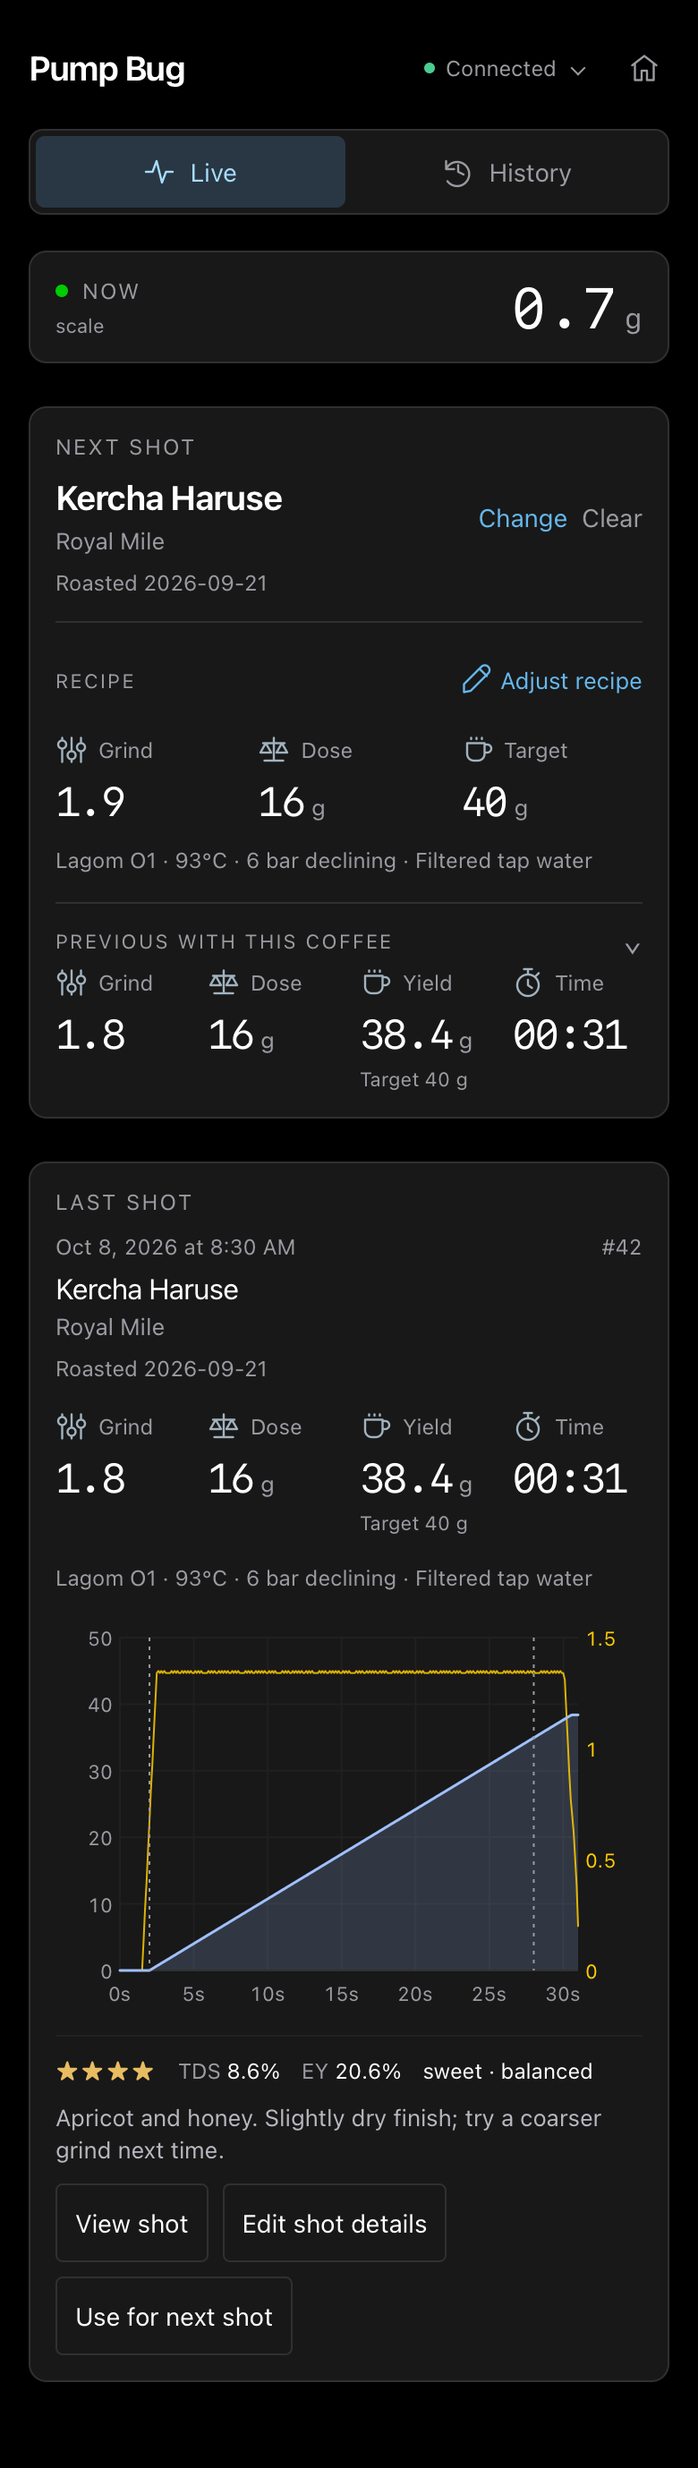
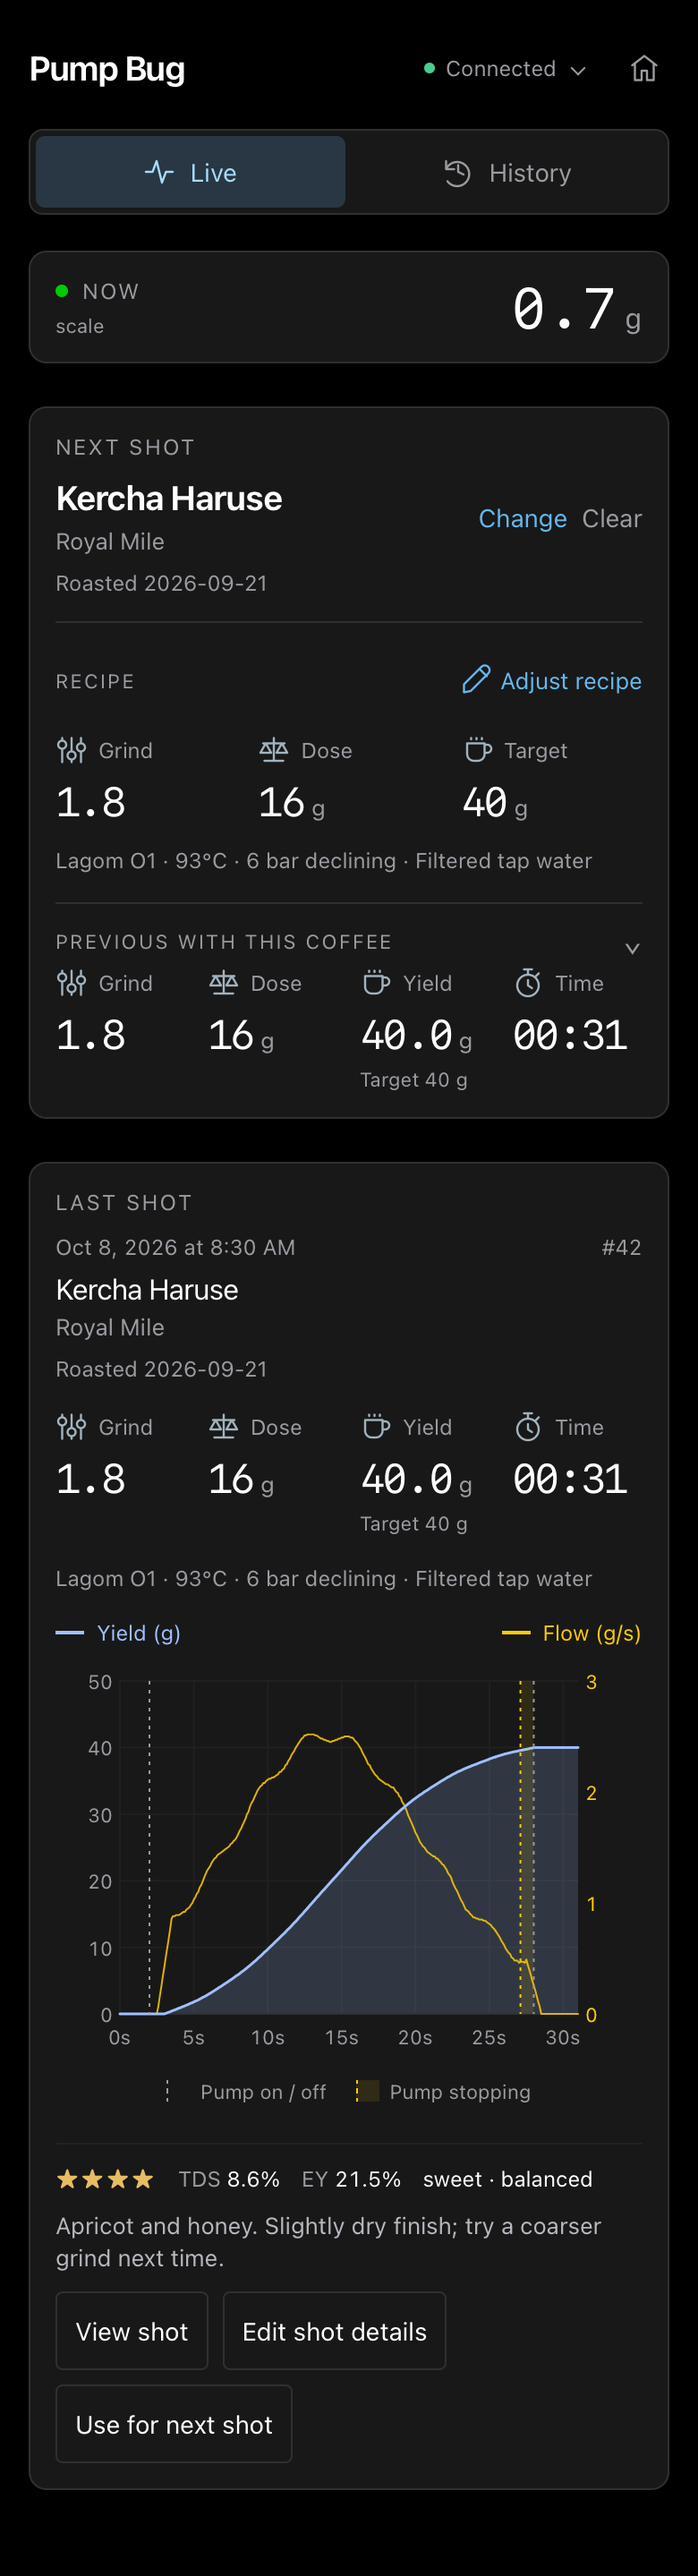
Make shot charts easier to read and inspect
Continue the web client redesign with labelled yield and flow curves
and a key for pump events. During inspection, show measurements below
the plot so they stay readable without covering the curves.

diff --git a/web-src/app/extraction/chart.js b/web-src/app/extraction/chart.js
@@ -16,6 +16,7 @@ function createChart() {
   const PAD_L = 36, PAD_R = 36, PAD_T = 12, PAD_B = 22;
 
   let root = null;
+  let block = null;
   let svg = null;
   let overlay = null;
   let e = {};            // cached element refs
@@ -70,6 +71,21 @@ function createChart() {
   function ensureRoot() {
     if (root) return;
     root = htmlEl('div', 'chart');
+    block = htmlEl('div', 'chart-block');
+    e.key = htmlEl('div', 'chart-key');
+    e.key.style.visibility = 'hidden';
+    e.weightKey = htmlEl('span', 'chart-series-key weight');
+    e.flowKey = htmlEl('span', 'chart-series-key flow');
+    e.flowKey.textContent = 'Flow (g/s)';
+    e.key.append(e.weightKey, e.flowKey);
+    e.status = htmlEl('div', 'chart-status');
+    e.eventsKey = htmlEl('div', 'chart-events-key');
+    e.eventsKey.style.visibility = 'hidden';
+    e.pumpKey = htmlEl('span', 'chart-event-key pump');
+    e.pumpKey.textContent = 'Pump on / off';
+    e.stoppingKey = htmlEl('span', 'chart-event-key stopping');
+    e.stoppingKey.textContent = 'Pump stopping';
+    e.eventsKey.append(e.pumpKey, e.stoppingKey);
 
     svg = svgEl('svg', { preserveAspectRatio: 'none' });
     svg.style.display = 'block';
@@ -93,10 +109,12 @@ function createChart() {
     e.yLabels = htmlEl('div', 'chart-ylabels');
     e.yLabelsFlow = htmlEl('div', 'chart-ylabels chart-ylabels-flow');
     e.readout = htmlEl('div', 'chart-readout');
-    e.readout.style.display = 'none';
-    overlay.append(e.xLabels, e.yLabels, e.yLabelsFlow, e.readout);
+    e.readout.style.visibility = 'hidden';
+    overlay.append(e.xLabels, e.yLabels, e.yLabelsFlow);
 
     root.append(svg, overlay);
+    e.status.append(e.eventsKey, e.readout);
+    block.append(e.key, root, e.status);
 
     resizeObs = new ResizeObserver((entries) => {
       const r = entries[0].contentRect;
@@ -116,7 +134,7 @@ function createChart() {
 
   function mount(parent) {
     ensureRoot();
-    if (root.parentElement !== parent) parent.appendChild(root);
+    if (block.parentElement !== parent) parent.appendChild(block);
   }
 
   function update(extraction, nowMs) {
@@ -313,6 +331,7 @@ function createChart() {
       showFlow,
       annotations,
       beginMs,
+      haveZero,
     };
   }
 
@@ -331,9 +350,17 @@ function createChart() {
     if (!latest.extraction) return;
 
     const m = buildModel(latest.extraction, latest.nowMs);
+    e.weightKey.textContent = m.haveZero ? 'Yield (g)' : 'Weight (g)';
+    e.flowKey.hidden = !m.showFlow;
+    e.pumpKey.hidden = !m.annotations.some(annotation =>
+      annotation.type === 'pump-on' || annotation.type === 'pump-off-confirmed');
+    e.stoppingKey.hidden = !m.annotations.some(annotation =>
+      annotation.type === 'pump-signal-decay-onset' ||
+      annotation.type === 'pump-off-transition');
     const plotW = dims.w - PAD_L - PAD_R;
     const plotH = dims.h - PAD_T - PAD_B;
     if (plotW <= 0 || plotH <= 0) return;
+    e.key.style.visibility = 'visible';
 
     const [x0, x1] = m.xDomain;
     const [y0, y1] = m.yDomain;
@@ -372,7 +399,7 @@ function createChart() {
     renderFlowTicks(m, yfS, plotW);
     renderXTicks(m, xS, plotH);
     renderAnnotations(m, xS, plotH);
-    renderCrosshair(m, xS, yS, plotW, plotH);
+    renderCrosshair(m, xS, plotH);
   }
 
   function segmentsToD(segs, xS, yS) {
@@ -535,17 +562,17 @@ function createChart() {
     }
   }
 
-  function renderCrosshair(m, xS, yS, plotW, plotH) {
+  function renderCrosshair(m, xS, plotH) {
+    e.eventsKey.style.visibility = 'visible';
+    e.readout.style.visibility = 'hidden';
     const pinTms = scrub ? scrub.pinnedTms : (hover ? hover.tMs : null);
     if (pinTms == null) {
       e.crosshair.style.display = 'none';
-      e.readout.style.display = 'none';
       return;
     }
     const [x0, x1] = m.xDomain;
     if (pinTms < x0 || pinTms > x1) {
       e.crosshair.style.display = 'none';
-      e.readout.style.display = 'none';
       return;
     }
     const x = xS(pinTms);
@@ -558,7 +585,6 @@ function createChart() {
     const pts = m.pts;
     const nearIdx = nearestPtIdx(pts, pinTms);
     if (nearIdx < 0) {
-      e.readout.style.display = 'none';
       return;
     }
     const near = pts[nearIdx];
@@ -568,12 +594,9 @@ function createChart() {
       flowText = ' · ' + gps.toFixed(1) + ' g/s';
     }
     const secs = ((near.tMs - m.beginMs) / 1000).toFixed(2);
-    e.readout.textContent = 't=' + secs + 's · ' + near.g.toFixed(1) + ' g' + flowText;
-    e.readout.style.display = '';
-    // Position above the touch point. Clamp into plot area.
-    const rx = Math.max(PAD_L, Math.min(PAD_L + plotW - 120, x - 60));
-    e.readout.style.left = rx + 'px';
-    e.readout.style.top = (PAD_T + 4) + 'px';
+    e.readout.textContent = secs + ' s · ' + near.g.toFixed(1) + ' g' + flowText;
+    e.eventsKey.style.visibility = 'hidden';
+    e.readout.style.visibility = 'visible';
   }
 
   function nearestPtIdx(pts, tMs) {

diff --git a/web-src/app/extraction/styles.css b/web-src/app/extraction/styles.css
@@ -12,7 +12,10 @@
   --primary-fill: #176b99;
   --chart-grid: #202020;
   --chart-crosshair: #606060;
-  --chart-readout-bg: #181818e0;
+  --chart-plot-height: 220px;
+  --chart-key-height: 18px;
+  --chart-status-height: 30px;
+  --chart-gap: 6px;
 }
 html, body {
   font-family: var(--ui-font);
@@ -138,18 +141,22 @@ section { margin: 0 0 24px; }
 .card.now, .card.last-shot { border-radius: 10px; padding: 14px; }
 .last-shot > h2 { margin-bottom: 10px; }
 .last-shot-coffee { margin-bottom: 16px; }
-.last-shot > .chart { margin: 4px 0 14px; }
+.last-shot > .chart-block { margin: 4px 0 14px; }
 .last-shot .metadata-actions button { min-height: 44px; }
 .last-shot-alert { color: var(--dim); font-size: 12px; margin-top: 12px; }
 .preparation-details { color: var(--dim); font-size: 12px; line-height: 1.6; }
 .last-shot > .preparation-details, .comparison-row > .preparation-details {
   margin-bottom: 12px;
 }
-/* In-flight curve slot: same height as .chart whether it holds the chart or
-   the pre-sample placeholder, so the card never jumps mid-activity. */
-.chartslot { height: 220px; margin: 8px 0 0; }
+/* Reserve the chart and its labels while waiting for samples. */
+.chartslot {
+  display: grid; margin: 8px 0 0;
+  min-height: calc(var(--chart-plot-height) + var(--chart-key-height) +
+    var(--chart-status-height) + 2 * var(--chart-gap));
+}
+.chartslot > .chart-block { margin: 0; }
 .chartslot .empty {
-  height: 100%; padding: 0;
+  padding: 0;
   display: flex; align-items: center; justify-content: center;
 }
 .banner {
@@ -243,7 +250,7 @@ table.samples td.k { text-align: left; color: var(--dim); }
 .shot-detail-head .shot-coffee-name.missing { color: var(--dim); font-weight: 500; }
 .shot-detail-head button { min-height: 44px; flex-shrink: 0; }
 .shot-detail > .shot-metrics { margin-bottom: 20px; }
-.shot-detail > .chart { margin-bottom: 24px; }
+.shot-detail > .chart-block { margin-bottom: 24px; }
 .shot-detail > .empty.compact { padding: 0; text-align: left; margin-bottom: 20px; }
 .shot-detail-sections { display: grid; gap: 22px; margin-bottom: 24px; }
 .shot-detail-sections > :only-child { grid-column: 1 / -1; }
@@ -717,10 +724,41 @@ form > .editor-error:focus {
   .recipe-fields > .field:first-of-type { grid-column: 1 / -1; }
 }
 
+.chart-block {
+  display: grid; margin: 18px 0;
+  grid-template-rows: minmax(var(--chart-key-height), auto)
+    var(--chart-plot-height) minmax(var(--chart-status-height), auto);
+  row-gap: var(--chart-gap);
+}
+.chart-key {
+  display: flex; justify-content: space-between; align-items: center;
+  gap: 12px; font-size: 12px;
+}
+.chart-series-key { display: inline-flex; align-items: center; gap: 7px; }
+.chart-series-key::before {
+  content: ''; width: 16px; border-top: 2px solid currentColor;
+}
+.chart-series-key.weight { color: var(--accent-light); }
+.chart-series-key.flow { color: var(--warn); }
+.chart-series-key[hidden], .chart-event-key[hidden] { display: none; }
+.chart-status { display: grid; align-items: center; }
+.chart-status > * { grid-area: 1 / 1; }
+.chart-events-key {
+  display: flex; flex-wrap: wrap; justify-content: center;
+  gap: 8px 16px; font-size: 11px; color: var(--dim);
+}
+.chart-event-key { display: inline-flex; align-items: center; gap: 6px; }
+.chart-event-key::before {
+  content: ''; width: 12px; height: 12px; border-left: 1px dashed var(--dim);
+}
+.chart-event-key.stopping::before {
+  border-color: var(--warn);
+  background: color-mix(in srgb, var(--warn) 10%, transparent);
+}
 .chart {
   position: relative;
   width: 100%;
-  height: 220px;
+  height: var(--chart-plot-height);
   touch-action: none;
   user-select: none;
 }
@@ -804,15 +842,13 @@ form > .editor-error:focus {
   transform: translateX(-50%);
 }
 .chart-readout {
-  position: absolute;
-  background: var(--chart-readout-bg);
+  background: var(--surface);
   color: var(--fg);
   font-size: 0.75rem;
   font-variant-numeric: tabular-nums;
-  padding: 4px 6px;
-  border-radius: 3px;
-  pointer-events: none;
-  white-space: nowrap;
+  padding: 5px 4px;
+  border-radius: 6px;
+  text-align: center;
 }
 
 .device-target { display: grid; gap: 8px; margin-top: 12px; }

diff --git a/web-src/app/extraction/ui-live.js b/web-src/app/extraction/ui-live.js
@@ -144,9 +144,8 @@ function renderCurve(chart, parent, e) {
   chart.update(e, nowMs);
 }
 
-// Fixed-height slot for the in-flight curve. Exists for the whole pump
-// window so the layout never jumps mid-activity: before samples arrive (or
-// when the scale is gone) it holds a placeholder of the same size.
+// Reserve space for the in-flight chart and its labels throughout the pump
+// window, including while waiting for samples or the scale.
 function renderLiveChartSlot(card) {
   const slot = el('div', { class: 'chartslot' });
   if (inflight && inflight.sampleCount > 0) {

diff --git a/docs/web-guide.md b/docs/web-guide.md
@@ -287,10 +287,12 @@ without deleting the shot record. `Cancel` closes the editor without saving.
 
 ### Read the chart
 
-- The blue curve and shaded area show yield in grams.
+- The blue curve and shaded area show yield in grams. Before pour flow is
+  detected, the live chart shows raw scale weight, labelled `Weight (g)`.
 - The yellow curve uses the right axis and shows filtered flow in grams per
   second.
-- Dashed vertical markers identify pump-on and pump-off events.
+- Grey dashed markers identify pump-on and pump-off events.
+- The yellow dashed marker and shaded band show the pump stopping.
 - With a mouse, point at the chart to inspect a time, weight, and flow value.
   On a touch screen, press and drag across the chart.
 
